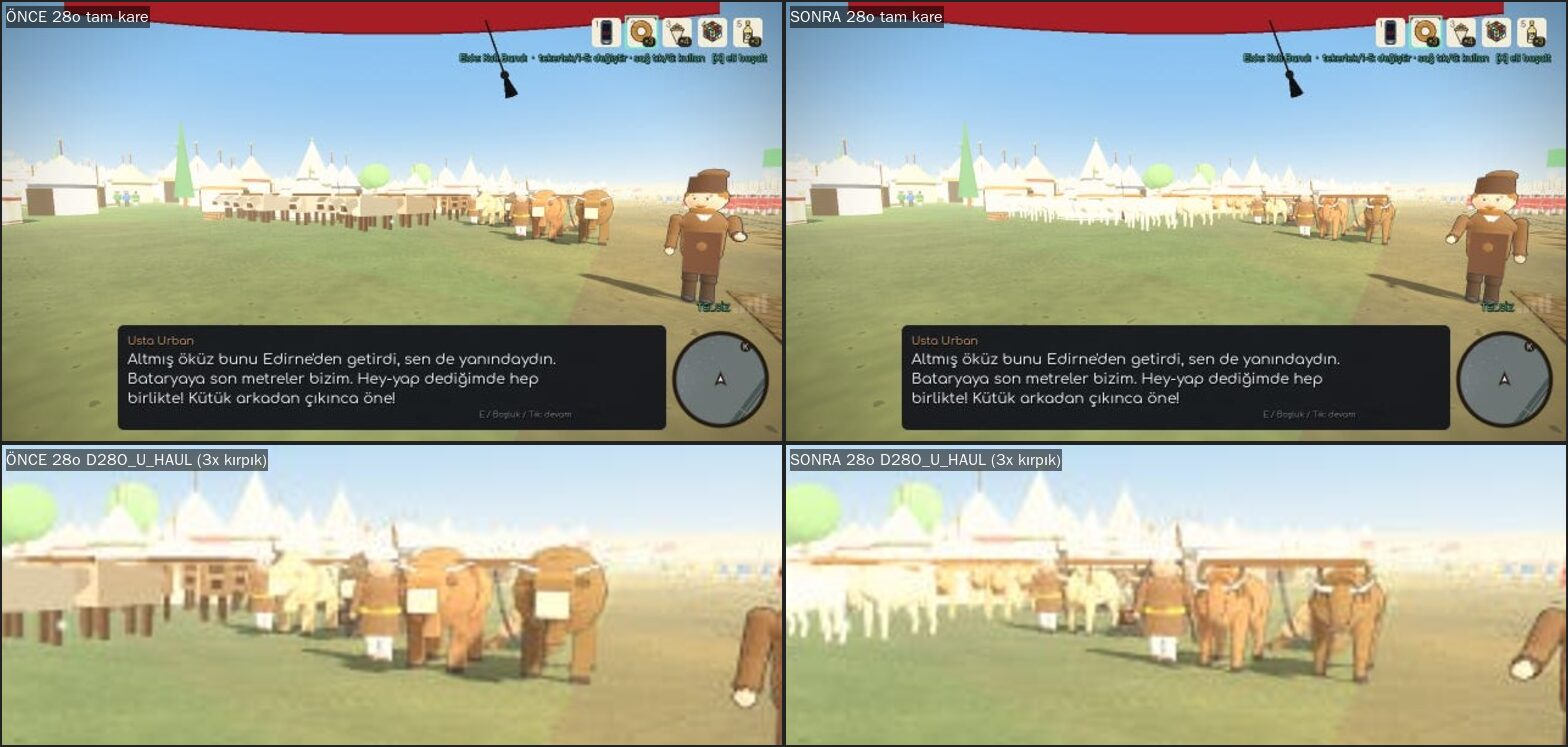
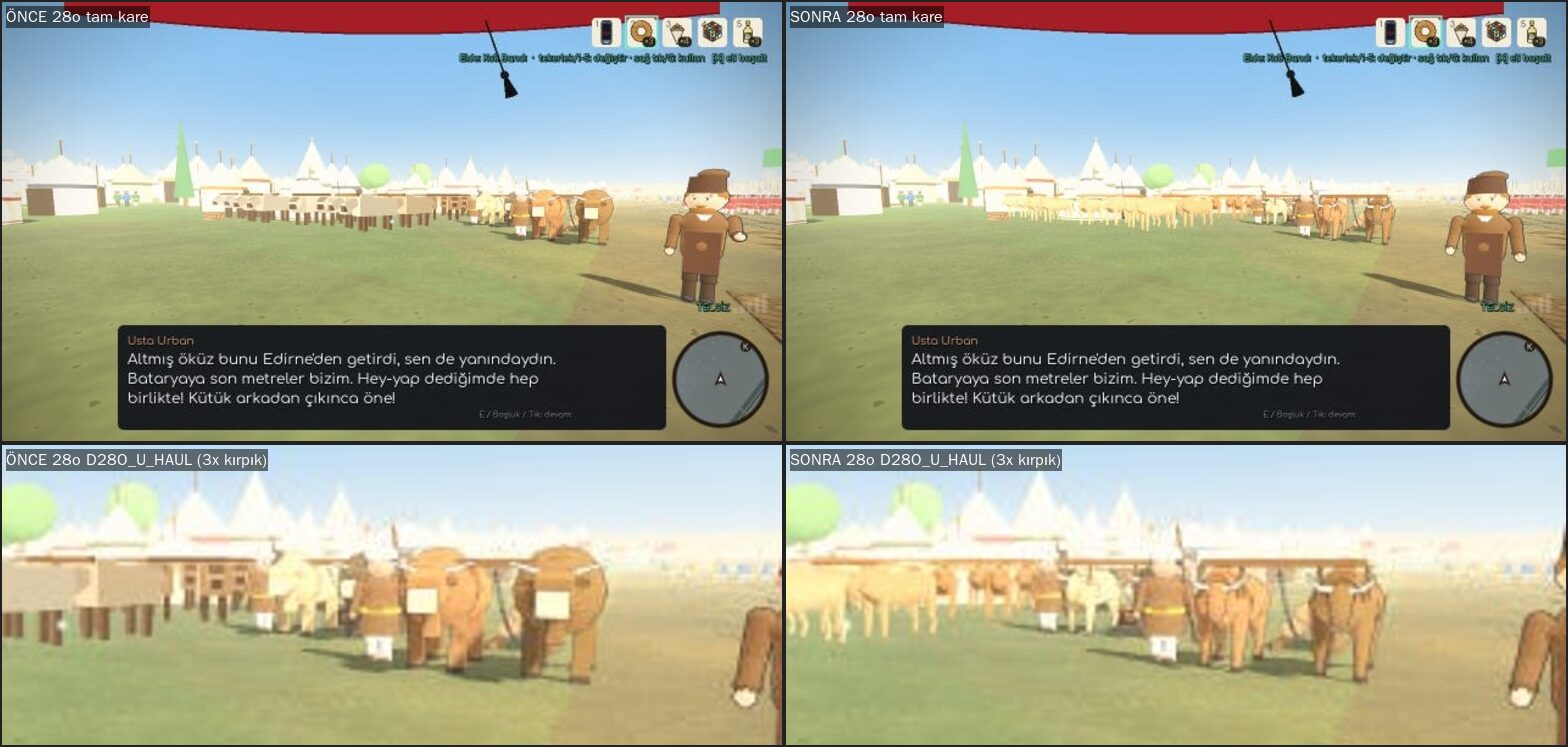
Canli: son rapor ve 28o paftasi (son kod)
Claude-Session: https://claude.ai/code/session_01RAjzxM59CtkMNa9jLeWgMW

diff --git a/docs/_kanit_canli/rapor.md b/docs/_kanit_canli/rapor.md
@@ -25,8 +25,8 @@ Dal `wip/ist2-canli` (taban `wip/ist2-ordugah4`, üstüne `wip/ist2-doku4` birle
 - **Martı:** tünekte katlı kanadın koyu ucu kuyruğun çok gerisine uzanıyor, yandan bıçak gibi (`sonda_07`).
 - **`pafta_01` 60 m karesi:** kamera öküze bakıyor ama öküzler batarya setinin arkasında kalıyor; karede hayvan yok
   (ÖNCE'de de yok). 60 m kanıtı yalnız sonda paftalarında: ordugâh içinde KANITSIZ.
-- **28o uzak sürü:** ilk SONRA karesinde sürü bembeyazdı (kitin açık postu eski yüz gölgesinden parlak); taban rengi
-  koyulaştırıldı, son karesi `pafta_03`'te (aşağıda).
+- **28o:** öküzler oynanışta yalnız çekme anında ve 30 m'den uzakta görünüyor (640 px dialog karesi); uzak sürü
+  koyulaştırılmış tabanla tan renkli, boynuz ve bacak seçiliyor (`pafta_03`), ama bu mesafede ayrıntı okunmuyor.
 - **Öküz önden:** boyunduruk başın üstünden geçen düz çubuk gibi duruyor (ensede değil, alnın üstünde okunuyor).
 - **Koyun:** yatan koyunun bacakları gövdenin altında kayboluyor, iyi; ama otlayan koyunun başı yakında çok koyu leke.
 - **Ordugâhta canlılık yok:** ordugâh hayvanları durağan birleşik ağ (duruş çeşitliliği var: duran, otlayan, yatan,
@@ -206,7 +206,9 @@ okz.done(host, "okuz")
   - Ara koşular: 12 anahtar (28o, 35o, 2, 10, 6, 8y, 11, 16, 7, 26) + 28o dört varyant + 16 üç varyant: PASS 0.
   - SON KODLA (bütün değişikliklerden sonra, `OZET6`): 28o (4 varyant), 35o (2), 2 (2), 10 (2), 6 (2), 8y (2),
     16 (2), 11, 7, 9, 15, 3, 26: 22/22 PASS, yasak 0. Ekranlı 28o (SONRA, son kod): PASS.
-  - Toplam 198 başsız koşu; 197 temiz, 1 rastlantısal (yukarıda).
+  - Son `wip/ist2-doku4` birleşmesinden sonra (DOKU-4 son raporu, ÇEVRE-4/SUR-4/BAĞLAMA-4 içinde): 28o, 35o, 2, 10:
+    4/4 PASS, yasak 0; ayrıştırma PASS. Ekranlı 28o (son kod, son kare): PASS.
+  - Toplam 202 başsız koşu; 201 temiz, 1 rastlantısal (yukarıda).
 - Bakamadıklarım: 1. ve 2. gruptan sonraki değişiklikler (ordugâh Bld kuralı, göz kesimi, halka çerçevesi sürekliliği,
   şehir yakın hayvan birleştirme, 28o sürü, 16 kedisi, at göğüslüğü) son kodla yalnız 22 koşuluk listeyle sınandı;
   157 varyantın hepsi son kodla yeniden koşmadı.
